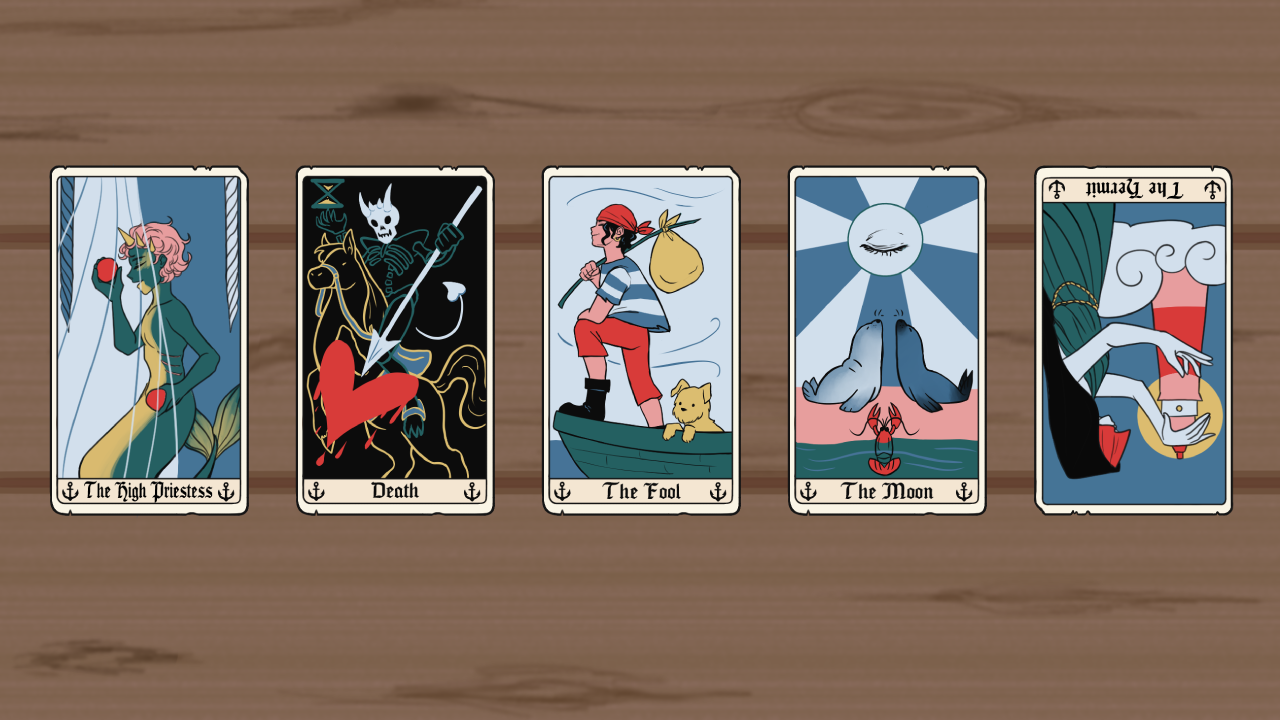
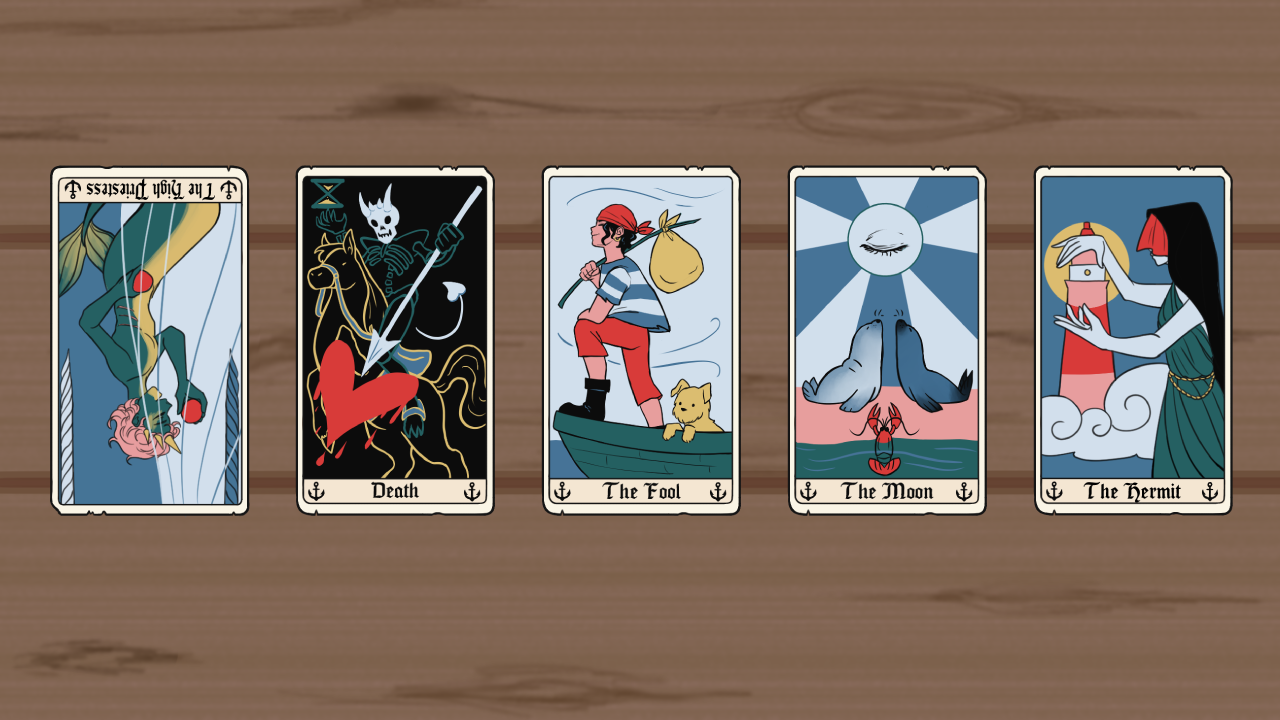
Semi-functioning hover in Lighthouse.js

Changed region(s): [[0.8125, 0.2139, 0.9688, 0.7333], [0.0312, 0.2139, 0.1875, 0.7028]]

diff --git a/src/scenes/Lighthouse.js b/src/scenes/Lighthouse.js
@@ -2,13 +2,13 @@ class Lighthouse extends Phaser.Scene {
     constructor() {
         super("lighthouse");
     }
-    
+
     preload() {
         // images
         this.load.image('bg', './assets/bg.png');
-        this.load.image('inventory', './assets/Inventory.png');
-        this.load.image('inventBG', './assets/inventoryInterior.png');
-        this.load.image('x', './assets/x.png');
+        this.load.image('ph', './assets/placeholder.png');
+        this.load.image('highPriestess', './assets/highPriestess.png');
+        this.load.image('death', './assets/Death.png');
 
         // obstacles
 
@@ -34,37 +34,40 @@ class Lighthouse extends Phaser.Scene {
         keyA = this.input.keyboard.addKey(Phaser.Input.Keyboard.KeyCodes.A);
         keyS = this.input.keyboard.addKey(Phaser.Input.Keyboard.KeyCodes.S);
         keyD = this.input.keyboard.addKey(Phaser.Input.Keyboard.KeyCodes.D);
-        keyI = this.input.keyboard.addKey(Phaser.Input.Keyboard.KeyCodes.I);
 
-        /////////////////////////////////////////////////////////////////////////////////////////////////////////
-        // inventory 
-        this.invent = this.add.sprite(60,60, 'inventory');
-        this.invent.setDisplaySize(100, 100);
-        this.invent.setInteractive({
+        // hover testing nonsense
+        
+        this.ph = this.add.sprite(160, 330, 'ph');
+        this.ph.setDisplaySize(210, 360);
+        this.ph.setVisible(true);
+        this.ph.setInteractive({
             useHandCursor: true
         });
 
-        // box bg
-        this.boxBG = this.add.sprite(650,350, 'inventBG');
-        this.boxBG.setDisplaySize(1280, 720);
-        this.boxBG.setVisible(false);
-
-        // close
-        this.closeInven = this.add.sprite(50, 50, 'x');
-        this.closeInven.setDisplaySize(50, 50);
-        this.closeInven.setVisible(false);
-        this.closeInven.setInteractive({
+        this.ph2 = this.add.sprite(400, 330, 'ph');
+        this.ph2.setDisplaySize(210, 360);
+        this.ph2.setVisible(true);
+        this.ph2.setInteractive({
             useHandCursor: true
         });
-        
-        /////////////////////////////////////////////////////////////////////////////////////////////////////////
-        // cursor
-        this.input.on('gameobjectdown', (pointer, gameObject, event) => { 
-            //console.log(pointer);
-            //console.log(gameObject);
-            //console.log(event);
+
+        this.hp = this.add.sprite(650, 350, 'highPriestess');
+        this.hp.setDisplaySize(1280, 720);
+        this.hp.setVisible(false);
+        this.hp.setInteractive({
+            useHandCursor: true
         });
-        
+
+        this.d = this.add.sprite(650, 350, 'death');
+        this.d.setDisplaySize(1280, 720);
+        this.d.setVisible(false);
+        this.d.setInteractive({
+            useHandCursor: true
+        });
+
+        // hover var
+        this.onCard = 0;
+
         /////////////////////////////////////////////////////////////////////////////////////////////////////////
         // borders
         this.add.rectangle(0, 0, 10, game.config.height, 0x042630).setOrigin(0, 0);
@@ -74,36 +77,40 @@ class Lighthouse extends Phaser.Scene {
     }
 
     update() {
-        // clicks inventory
-        this.invent.on('pointerdown', function (pointer){
-            //console.log("click")
-            inventory = true;
-        });
+        if(this.onCard == 0){
+            // if hover on hp
+            this.ph.on('pointerover', (pointer) => {
+                console.log("on hp");
+                this.hp.setVisible(true);
+                this.onCard = 1;
+            });
 
-        // inventory is open
-        if(inventory == true){
-            // hide inventory icon
-            this.invent.setVisible(false);
-            // show inventory bg
-            this.boxBG.setVisible(true);
-            // show inventory close button
-            this.closeInven.setVisible(true);
+            // if hover on hp
+            this.ph2.on('pointerover', (pointer) => {
+                console.log("on death");
+                this.d.setVisible(true);
+                this.onCard = 1;
+            });
         }
 
-        // "x" to close inventory
-        this.closeInven.on('pointerdown', function (pointer){
-            inventory = false;
-        });
-
-        // inventory is closed
-        if(inventory == false){
-            // show inventory icon
-            this.invent.setVisible(true);
-            // hide inventory bg
-            this.boxBG.setVisible(false);
-            // hide inventory close button
-            this.closeInven.setVisible(false);
+        // text on screen
+        if(this.onCard > 0 && this.onCard < 100) {
+            this.onCard += 1;
+        } 
+        else if(this.onCard >= 100){
+            console.log("OUT")
+            this.hp.setVisible(false);
+            this.d.setVisible(false);
+            this.onCard = 0;
         }
+
+        // hover shit
+        /*
+        this.input.pointerOver()
+        {
+            console.log("on card")
+        }
+        */
 
         // temp, back to outside
         if (Phaser.Input.Keyboard.JustDown(keySPACE)) {

diff --git a/src/scenes/IslandNorth.js b/src/scenes/IslandNorth.js
@@ -2,12 +2,13 @@ class IslandNorth extends Phaser.Scene {
     constructor() {
         super("islandNorth");
     }
-    
+
+    highPriestess;
+
     preload() {
         // images
         this.load.image('islandnorth', './assets/IslandNorth.PNG');
         this.load.image('hitbox', './assets/HitBox2.png');
-        this.load.image('hook', './assets/manDoorHandHookCarDoor.png');
 
         // inventory
         this.load.image('inventory', './assets/Inventory.png');
@@ -29,6 +30,9 @@ class IslandNorth extends Phaser.Scene {
         this.load.image('content6', './assets/6.png');
         this.load.image('content7', './assets/7.png');
 
+        // card descriptions
+        this.load.image('highPriestess', './assets/highPriestess.png');
+
     }
 
     create() {
@@ -48,7 +52,6 @@ class IslandNorth extends Phaser.Scene {
         keyA = this.input.keyboard.addKey(Phaser.Input.Keyboard.KeyCodes.A);
         keyS = this.input.keyboard.addKey(Phaser.Input.Keyboard.KeyCodes.S);
         keyD = this.input.keyboard.addKey(Phaser.Input.Keyboard.KeyCodes.D);
-        keyI = this.input.keyboard.addKey(Phaser.Input.Keyboard.KeyCodes.I);
 
         /////////////////////////////////////////////////////////////////////////////////////////////////////////
         // cursor
